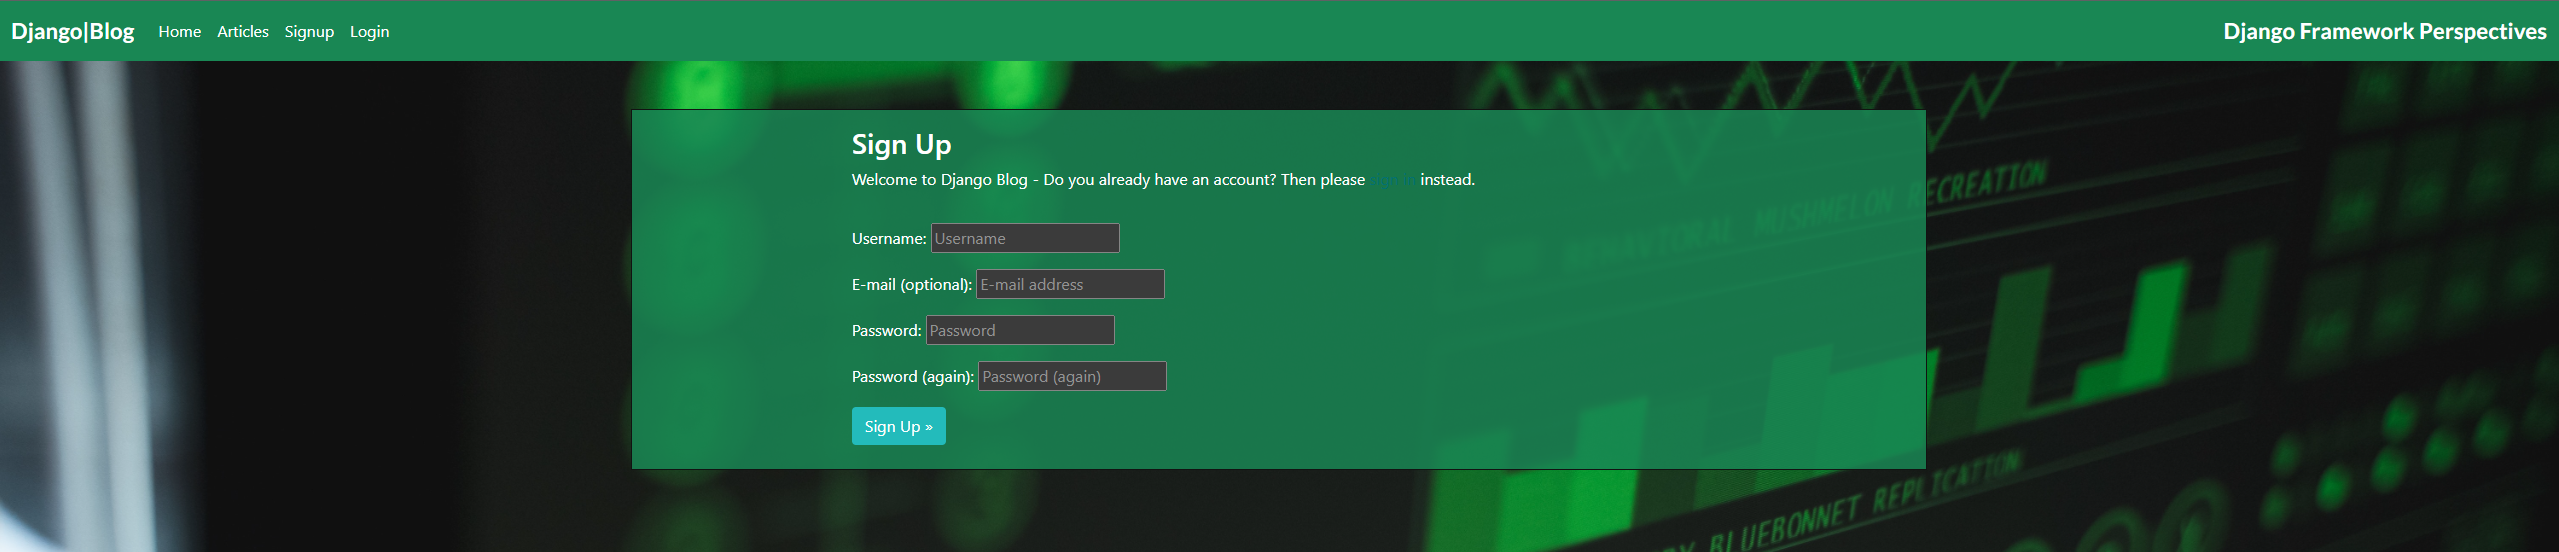
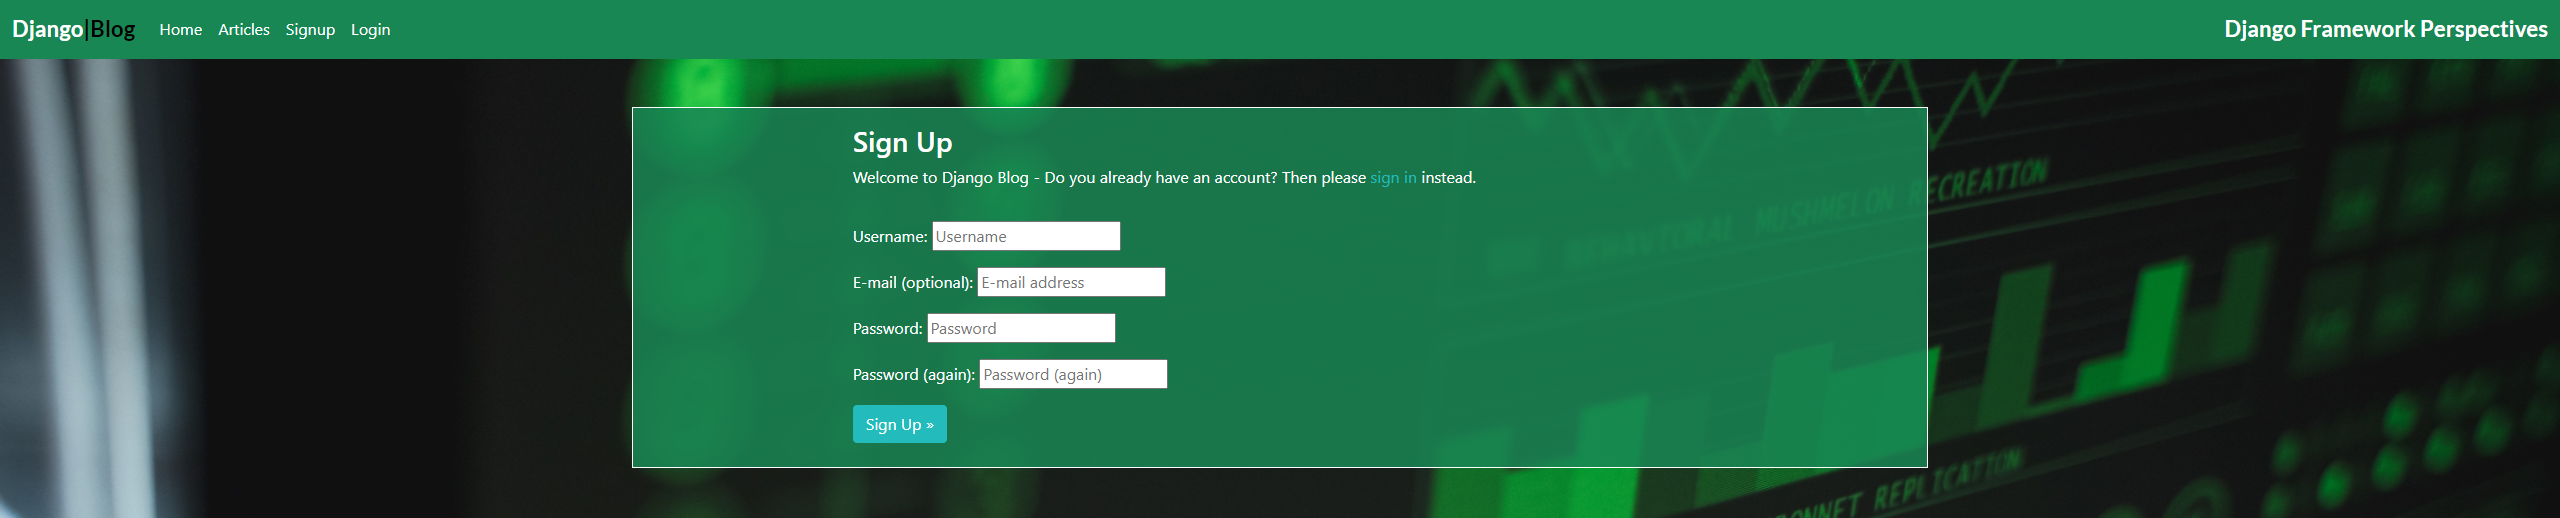
Update signup & signin screenshots for readme

diff --git a/templates/account/signup.html b/templates/account/signup.html
@@ -7,7 +7,7 @@
 {% block content %}
 <div class="container">
     
-    <div id="signup">
+    <div class="signup-out">
 
         <div class="green border border-white pb-4 mt-5">
 
